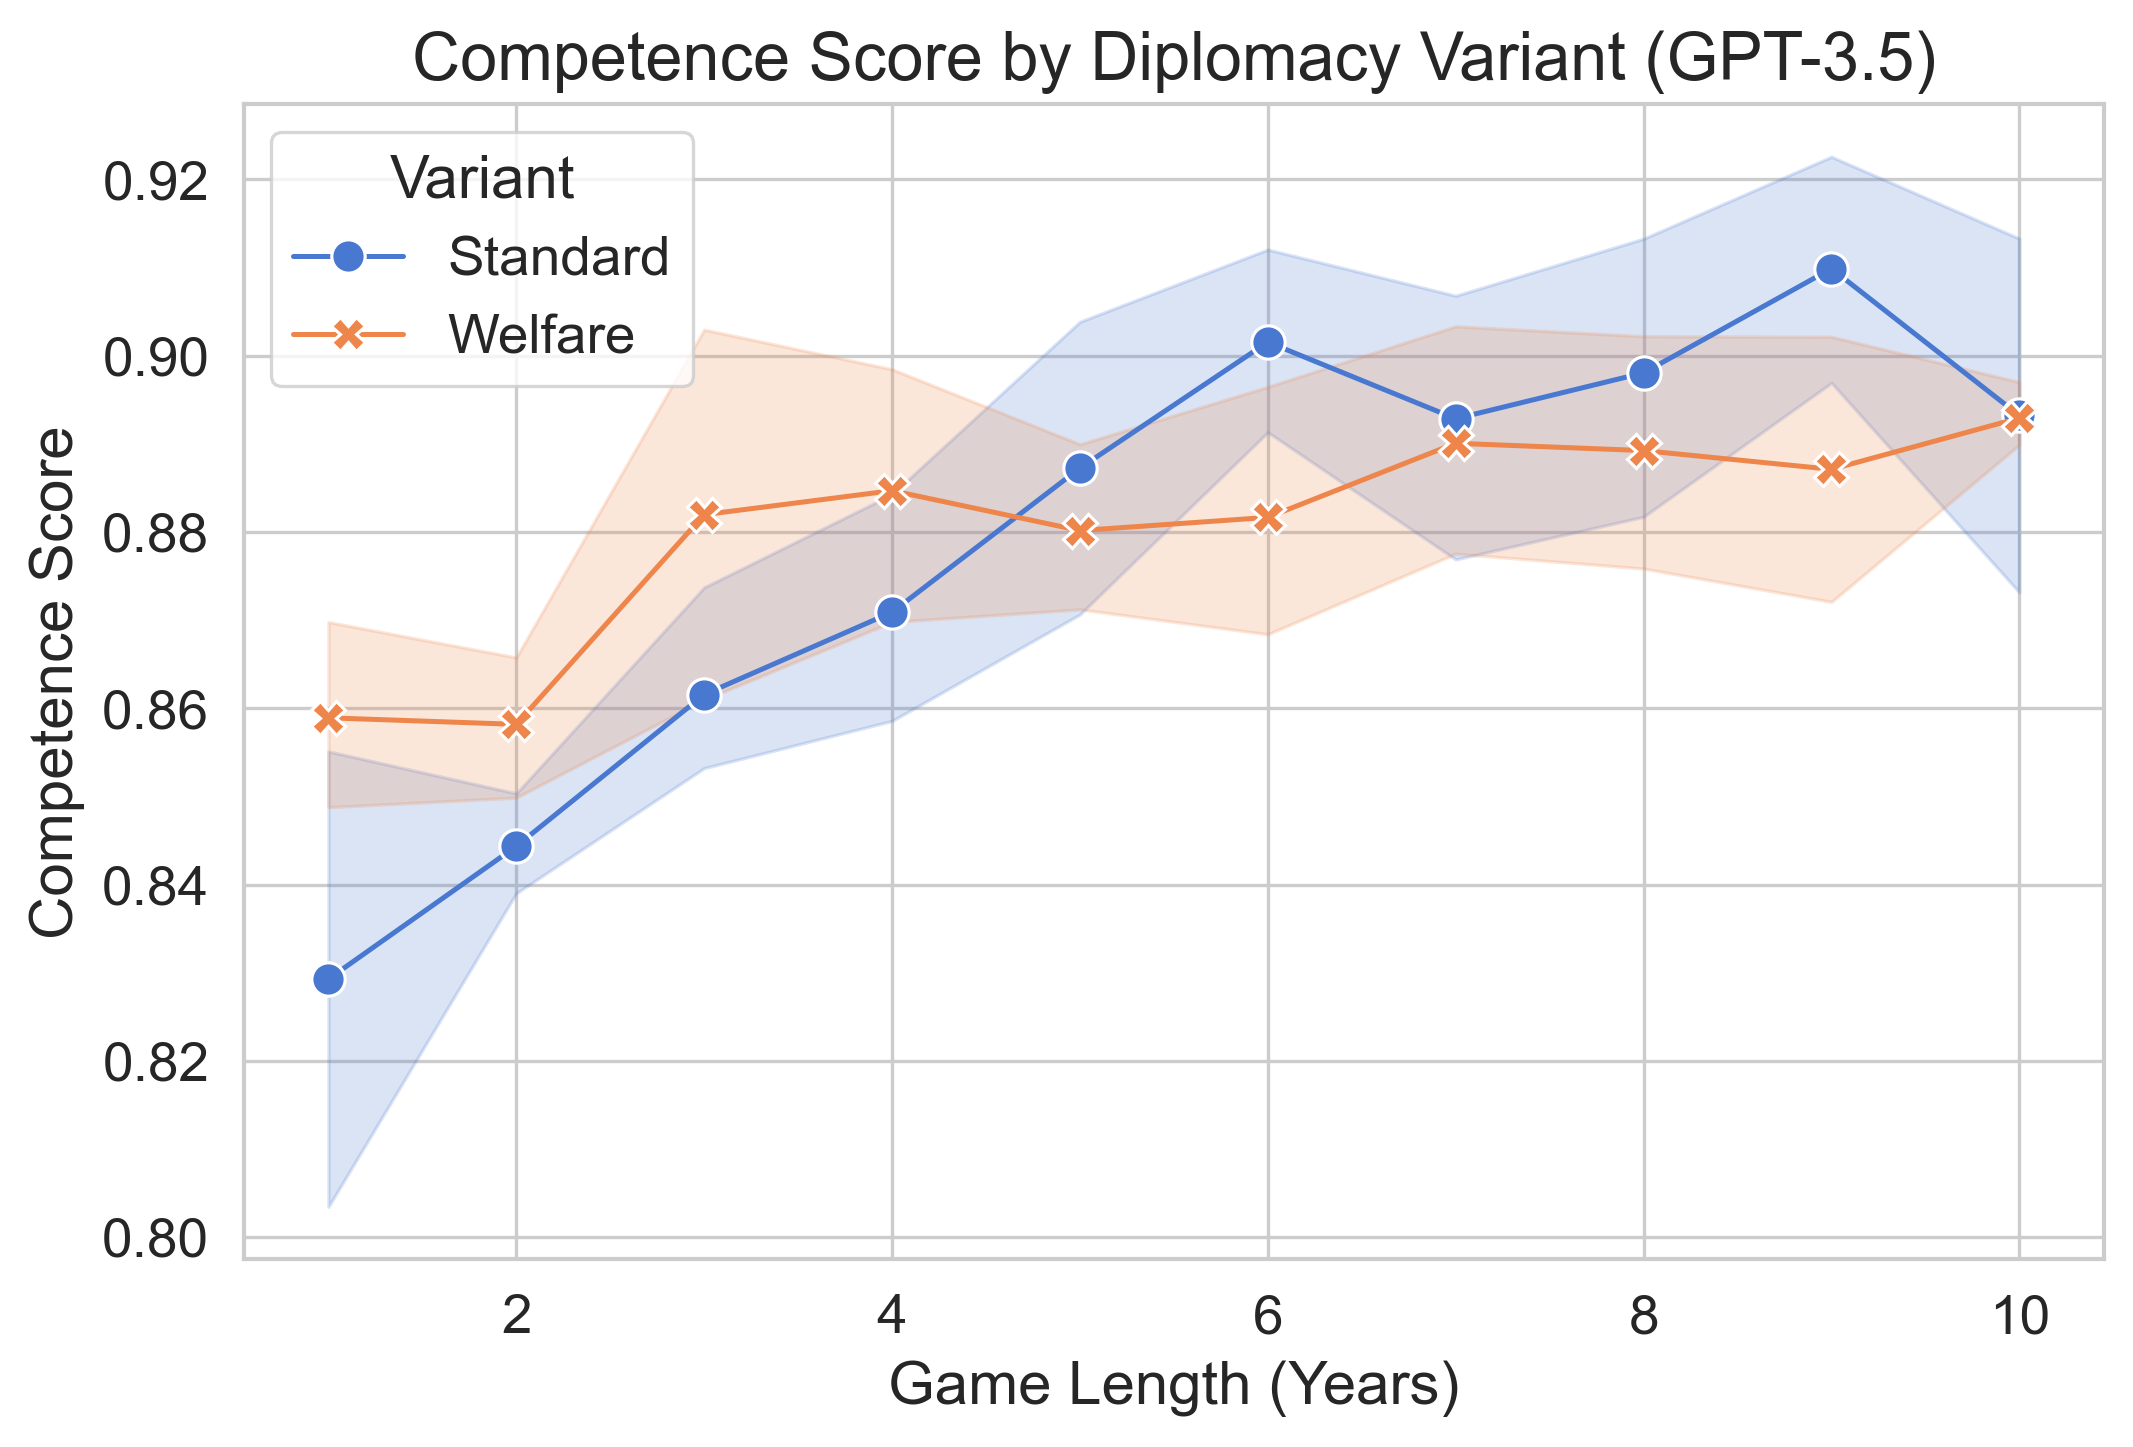
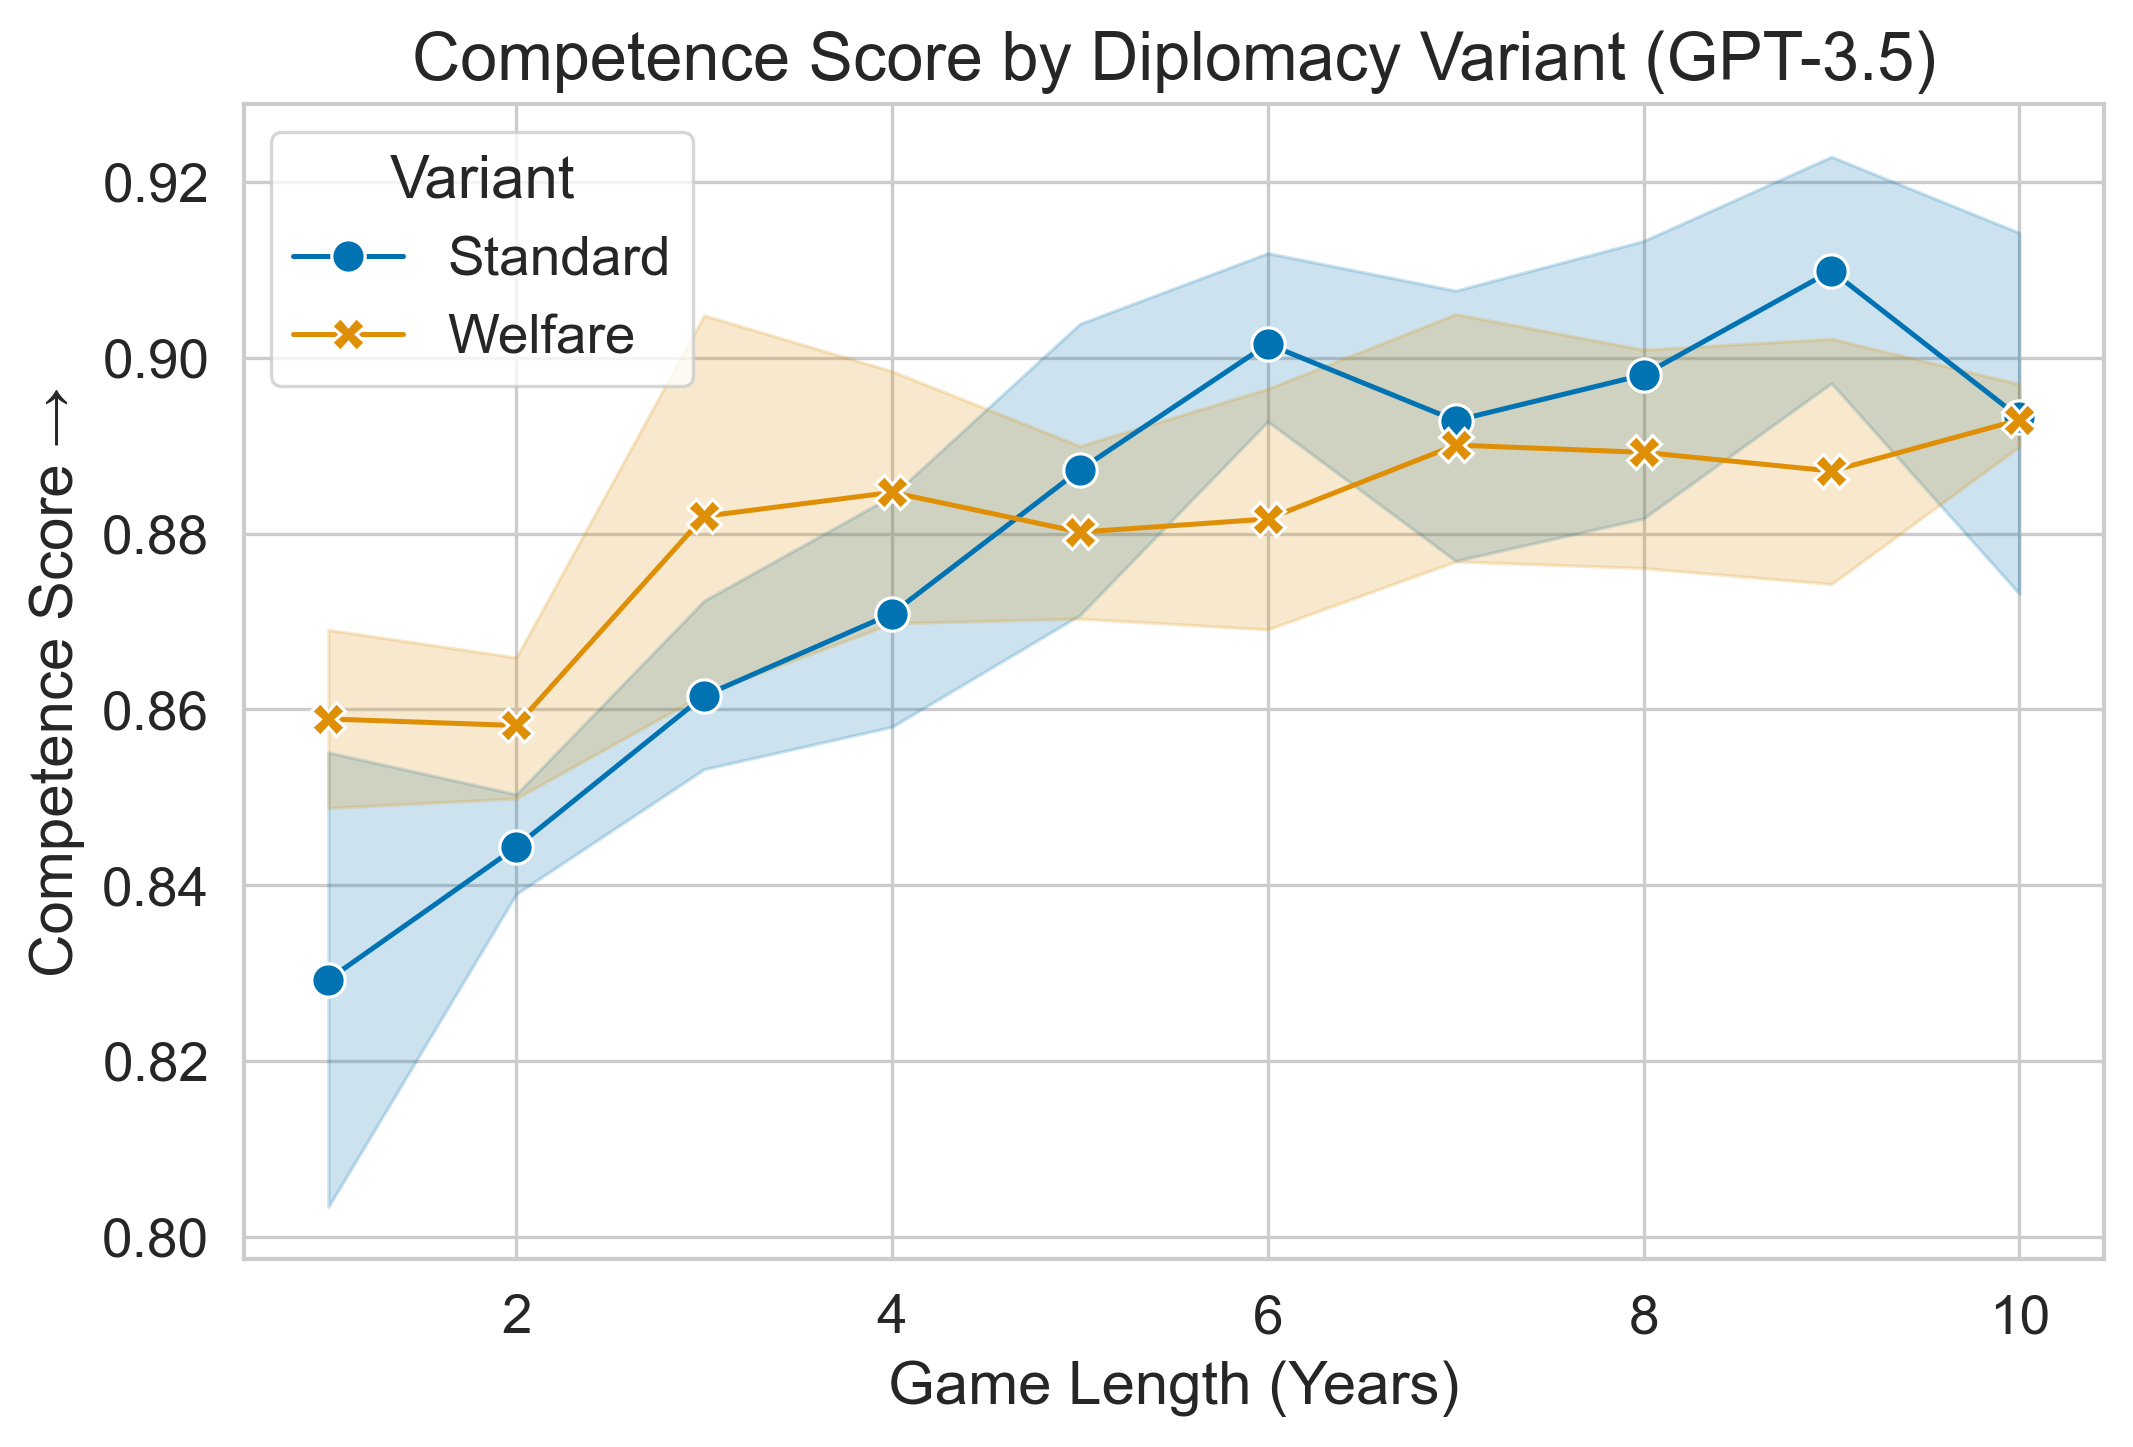
Add arrows

diff --git a/experiments/charts/standard_vs_welfare.py b/experiments/charts/standard_vs_welfare.py
@@ -30,9 +30,9 @@ def main() -> None:
     print(df.groupby(["map_name", "max_years"])["_progress/percent_done"].mean())
 
     # Plot a bunch of different bar graphs for different metrics
-    for metric_name, y_label in [
-        ("benchmark/competence_score", "Competence Score"),
-        ("combat/game_conflicts_avg", "Average Conflicts per Phase"),
+    for metric_name, y_label, improvement_sign in [
+        ("benchmark/competence_score", "Competence Score", 1),
+        ("combat/game_conflicts_avg", "Average Conflicts per Phase", -1),
     ]:
         # Initialize
         initialize_plot_default()
@@ -55,9 +55,6 @@ def main() -> None:
         plot_df[grouping] = plot_df[grouping].str.replace("standard_welfare", "Welfare")
         plot_df[grouping] = plot_df[grouping].str.capitalize()
 
-        # # convert to long format
-        # plot_df = plot_df.melt()
-
         # Create the plot by plotting two lines
         plot = sns.lineplot(
             data=plot_df,
@@ -72,7 +69,12 @@ def main() -> None:
 
         # Set labels and title
         plt.xlabel(x_label)
-        plt.ylabel(y_label)
+        y_axis_label = y_label
+        if improvement_sign == 1:
+            y_axis_label += " →"
+        elif improvement_sign == -1:
+            y_axis_label += " ←"
+        plt.ylabel(y_axis_label)
         title = f"{y_label} by Diplomacy Variant (GPT-3.5)"
         plt.title(title)
 

diff --git a/experiments/charts/same_policy.py b/experiments/charts/same_policy.py
@@ -103,7 +103,7 @@ def main() -> None:
             optimal_prosocial = df_optimal_prosocial[metric_name].iloc[0]
             plot.axhline(
                 optimal_prosocial,
-                color=MODEL_NAME_TO_COLOR["Optimal Prosocial"],
+                color=COLOR_ALT_1,
                 linestyle="--",
                 linewidth=2,
                 label="Optimal Prosocial",
